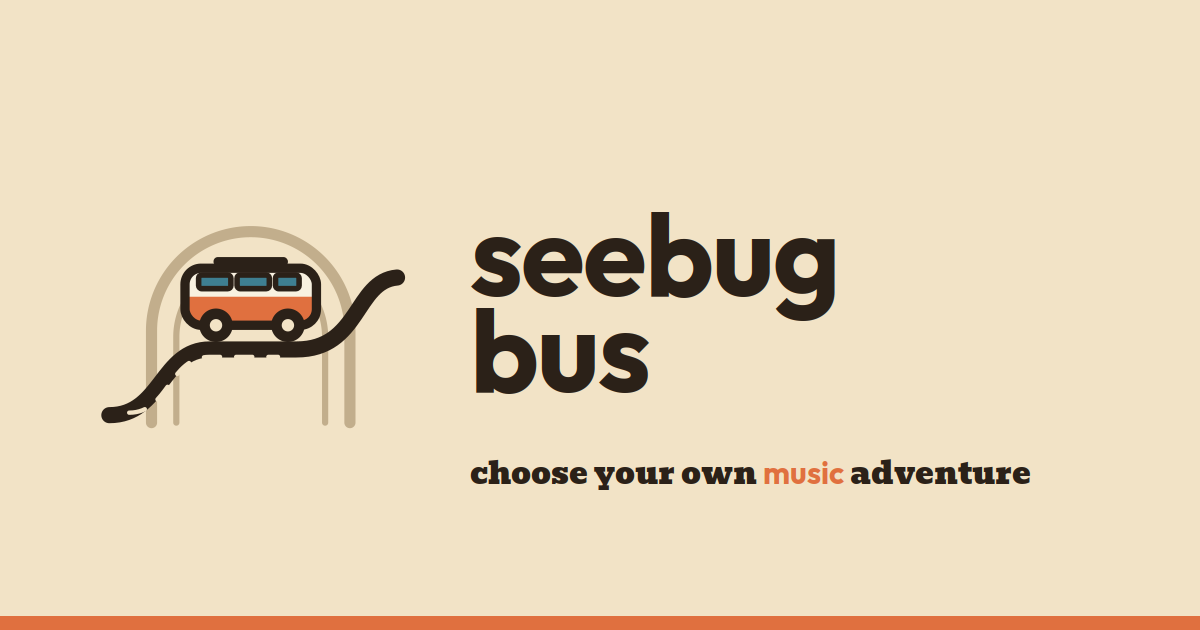
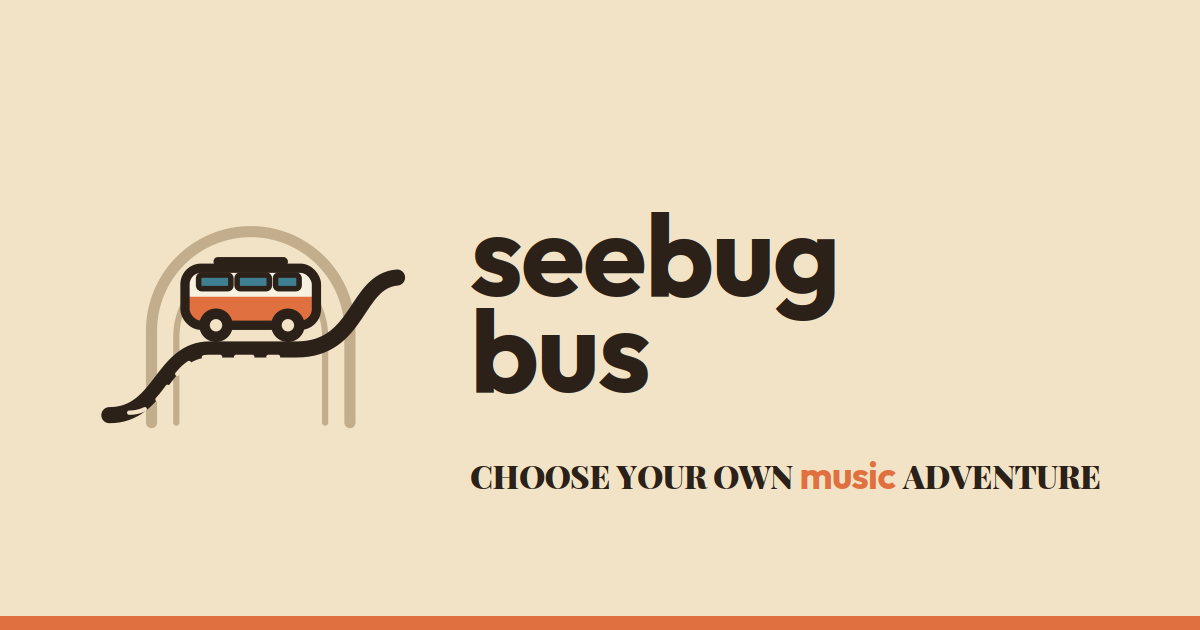
Updated brand kit: Playfair Display tagline, live-text lockup
Swaps Bevan for Playfair Display Black per the refreshed kit, and renders the
tagline as live text rather than the shipped SVG — an SVG in an <img> is
font-isolated and would fall back to a generic serif, while recolouring the
raster for the dark stage turned the orange "music" teal, flattening the
two-face two-colour switch the brand notes protect.

The tagline now greets on first load and recedes once a path is underway.

Claude-Session: https://claude.ai/code/session_011LxfVt6m24HUxSJpzbfTyk

Changed region(s): [[0.37, 0.7238, 0.925, 0.7841]]

diff --git a/src/index.css b/src/index.css
@@ -499,11 +499,55 @@ button { font: inherit; color: inherit; }
 /* The loading screen is the one place the full lockup gets room to breathe. */
 .loading__logo { width: min(46vw, 190px); height: auto; }
 
-.loading__tagline {
-  width: min(72vw, 300px);
-  height: auto;
-  /* The tagline artwork is drawn in brand ink for a sand ground; on the dark
-     stage it needs lifting rather than recolouring, which would break the
-     deliberate two-typeface, two-colour switch that carries the joke. */
-  filter: invert(1) hue-rotate(180deg) saturate(1.25) brightness(1.06);
+/*
+ * The tagline, set as live text rather than the SVG.
+ *
+ * An SVG loaded through <img> is font-isolated — it cannot see webfonts loaded
+ * by the page — so tagline.svg would render in a fallback serif and lose
+ * Playfair entirely. Recolouring the raster with a filter was worse: it turns
+ * the orange "music" teal, flattening the very two-colour switch the brand
+ * notes say carries the joke. Live text keeps both faces and both colours, and
+ * stays crisp at any size.
+ */
+.tagline {
+  margin: 0;
+  font-family: "Playfair Display", Georgia, serif;
+  font-weight: 900;
+  text-transform: uppercase;
+  letter-spacing: -0.012em;
+  line-height: 1;
+  color: var(--sbb-sand);
+  white-space: nowrap;
 }
+
+.tagline em {
+  font-family: "Outfit", system-ui, sans-serif;
+  font-weight: 700;
+  font-style: normal;
+  text-transform: lowercase;
+  /* Sized up so the lowercase x-height optically matches the surrounding caps. */
+  font-size: 1.18em;
+  letter-spacing: -0.02em;
+  color: var(--sbb-orange);
+}
+
+/* Shown only before the first turn, so the welcome recedes once you're moving. */
+.tagline--welcome {
+  position: absolute;
+  left: 50%;
+  top: clamp(6px, 2vh, 26px);
+  transform: translateX(-50%);
+  z-index: 45;
+  font-size: clamp(15px, 2.6vw, 30px);
+  pointer-events: none;
+  animation: welcomeIn 0.7s var(--ease) both;
+}
+
+@keyframes welcomeIn {
+  from { opacity: 0; transform: translate(-50%, -8px); }
+  to   { opacity: 0.92; transform: translate(-50%, 0); }
+}
+
+.loading .tagline { font-size: clamp(15px, 4.4vw, 27px); }
+
+@media (max-width: 640px) { .tagline { white-space: normal; text-align: center; } }

diff --git a/src/App.tsx b/src/App.tsx
@@ -237,7 +237,9 @@ export default function App() {
     return (
       <div className="loading">
         <img className="loading__logo" src="./svg/logo-stacked.svg" alt="seebugbus" width={190} />
-        <img className="loading__tagline" src="./svg/tagline.svg" alt="choose your own music adventure" width={300} />
+        <p className="tagline">
+          Choose your own <em>music</em> adventure
+        </p>
         <div style={{ fontSize: 12, opacity: 0.6 }}>
           {catalogSize.toLocaleString()} albums aboard ·{' '}
           {CATALOG_STATS.corridorsComplete.length} of 11 routes mapped
@@ -271,6 +273,12 @@ export default function App() {
 
       <div className="flow">
         <Flow cards={cards} />
+
+        {trail.length === 1 && (
+          <p className="tagline tagline--welcome">
+            Choose your own <em>music</em> adventure
+          </p>
+        )}
 
         {wildcard && (
           <button

diff --git a/src/main.tsx b/src/main.tsx
@@ -5,7 +5,7 @@ import '@fontsource/outfit/400.css';
 import '@fontsource/outfit/500.css';
 import '@fontsource/outfit/600.css';
 import '@fontsource/outfit/700.css';
-import '@fontsource/bevan/400.css';
+import '@fontsource/playfair-display/900.css';
 import './index.css';
 import App from './App.tsx';
 

diff --git a/README.md b/README.md
@@ -19,6 +19,22 @@ densest cluster of your taste and serving the same adjacency canon. So the
 engine is built to do the opposite: it offers two options that diverge *from
 each other*, and a distance dial that moves both further out together.
 
+## Brand
+
+Assets live in `public/` (marks, favicons, social cards, manifest). Fonts are
+self-hosted Outfit + Playfair Display Black — no CDN.
+
+The stage stays dark even though the brand is warm and light: Cover Flow's
+depth cues are shadow and reflection, and album art is composed against black
+far more often than cream, so a sand ground would flatten every cover on it.
+The palette is the brand's own dark-mode block — warm ink `#1C1611`, sand text,
+orange as the accent.
+
+The tagline is live text, never the SVG: an SVG in an `<img>` is font-isolated
+and would fall back to a generic serif, and recolouring the raster for a dark
+ground turns the orange `music` teal — flattening the two-face, two-colour
+switch that carries the joke.
+
 ## Hosting
 
 Static app on GitHub Pages, catalog on Turso (both free at this scale — see
